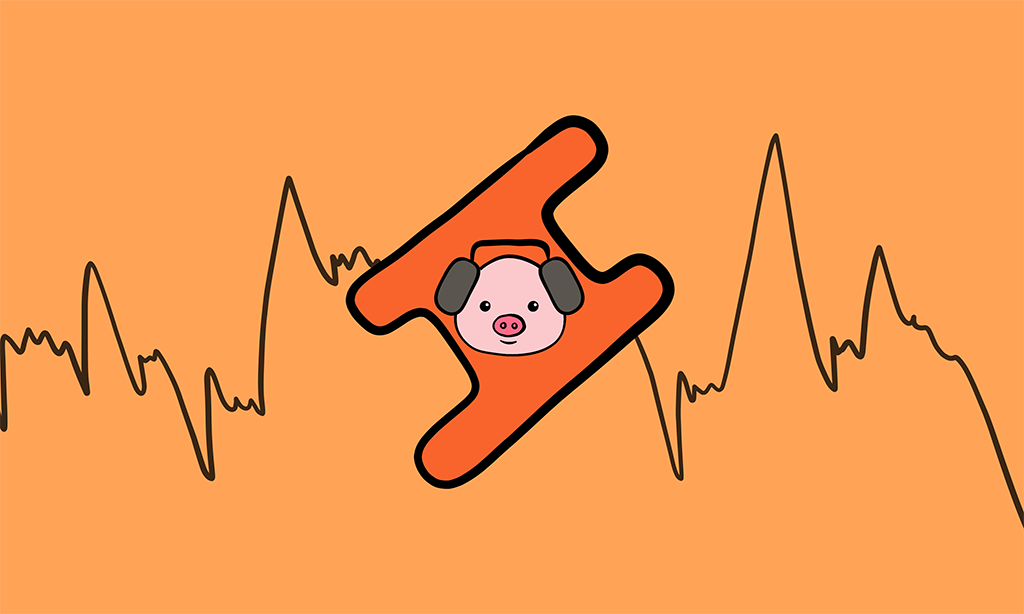
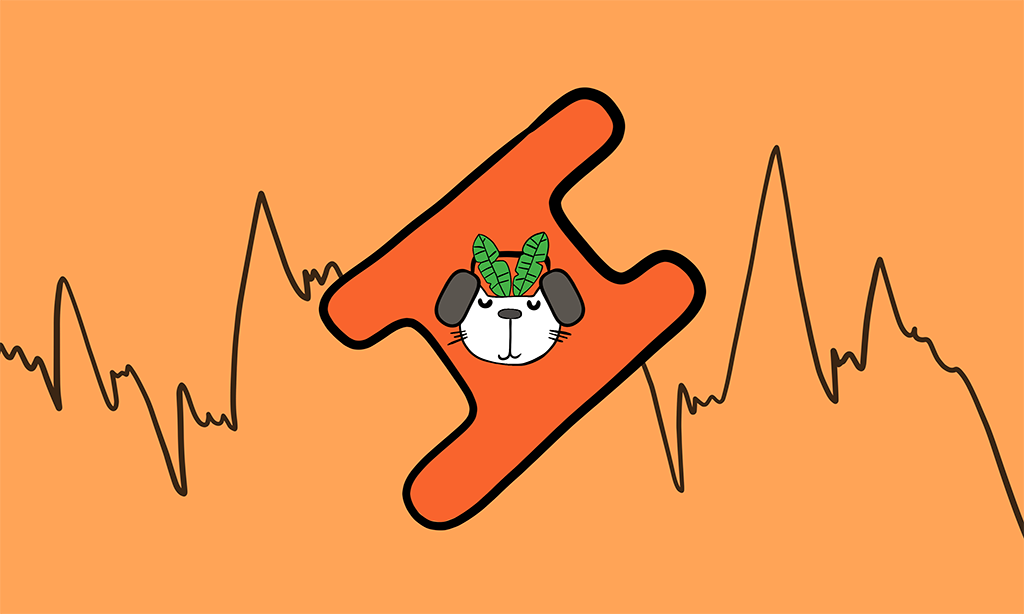
up

diff --git a/_posts/2021-12-21-christmas-radio.md b/_posts/2021-12-21-christmas-radio.md
@@ -1,9 +1,10 @@
 ---
 layout: post
-title: "Huyền Heo Radio"
+title: "Dumb FM"
 author: "Dương"
 categories: radio
 tags: [radio]
 image: radio.png
 ---
 
+Số đầu tiên và cũng có thể là số cuối cùng của <b>Dumb FM</b>. Đây là nơi tình cảm được gửi gắm thông qua các bài hát và người dẫn <b>D</b>.
